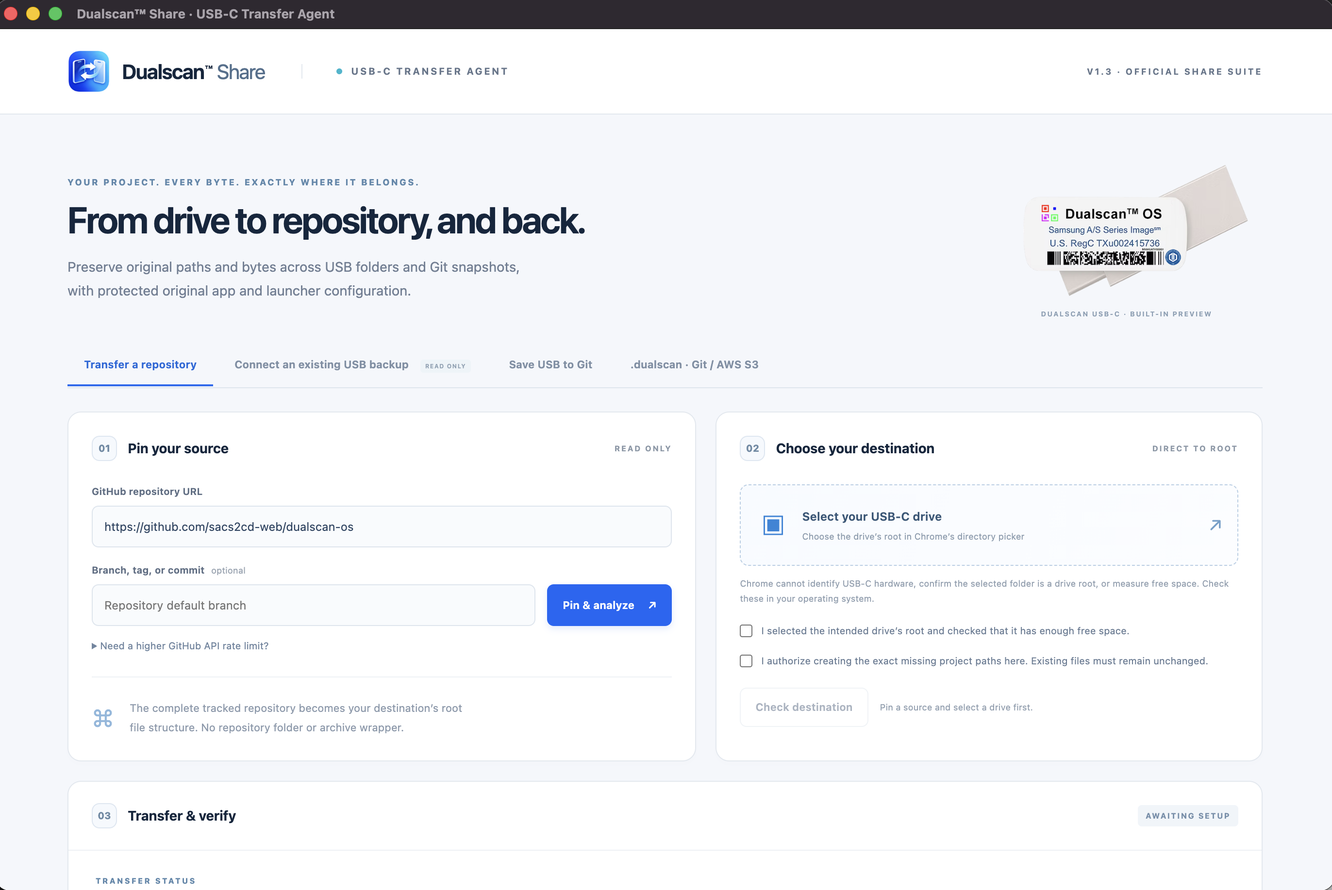
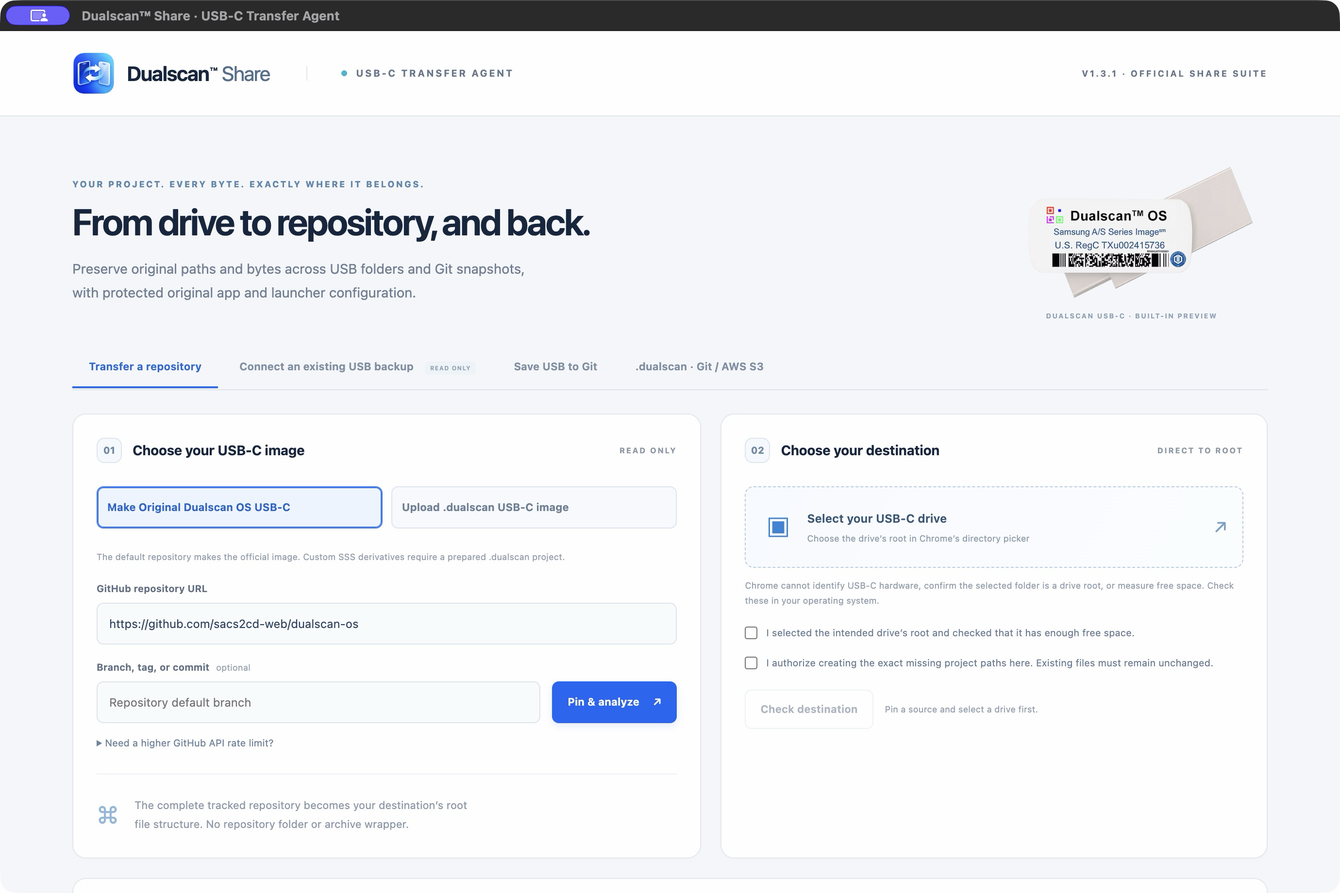
Publish Dualscan Share Suite 1.3.1 downloads and current Mac interface

diff --git a/docs/share/index.html b/docs/share/index.html
@@ -22,21 +22,21 @@
 <main id="main">
   <section class="hero wrap">
     <div class="hero-copy"><p class="eyebrow"><span class="dot"></span> MACOS · WINDOWS · CHROME</p><h1>Your USB image.<br><span>Every path, intact.</span></h1><p class="lead">Move your Dualscan OS project between USB-C, Git and your own AWS S3 bucket. Keep the original image protected. Carry the manifest in one <code>.dualscan</code> file.</p><div class="actions"><a class="button primary" href="#downloads">Get Share Suite <span aria-hidden="true">↓</span></a><a class="text-link" href="#workflow">Explore the workflow <span aria-hidden="true">↗</span></a></div><p class="hero-note">Verified file bytes and nested paths.<br>No drive formatting. No repository ZIP wrapper.</p></div>
-    <figure class="hero-visual"><div class="edition"><span>DUALSCAN OS / SHARE SUITE</span><span>1.3.0</span></div><img src="assets/dualscan-usb-c.png" alt="Dualscan OS branded USB-C drive" width="646" height="336"><figcaption><span class="verified-dot" aria-hidden="true"></span> Select a source. Review the destination. Verify every file.</figcaption></figure>
+    <figure class="hero-visual"><div class="edition"><span>DUALSCAN OS / SHARE SUITE</span><span>1.3.1</span></div><img src="assets/dualscan-usb-c.png" alt="Dualscan OS branded USB-C drive" width="646" height="336"><figcaption><span class="verified-dot" aria-hidden="true"></span> Select a source. Review the destination. Verify every file.</figcaption></figure>
   </section>
   <div class="platform-strip wrap"><div><strong>One project</strong><span>Git or AWS S3 sources</span></div><div><strong>Three platforms</strong><span>macOS · Windows · Chrome</span></div><div><strong>Original first</strong><span>Protected SSS image + added snapshots</span></div></div>
 
   <section id="workspace-preview" class="section wrap app-preview" aria-labelledby="preview-heading">
     <div class="section-heading"><div><p class="eyebrow">INSIDE SHARE SUITE</p><h2 id="preview-heading">Your project.<br><span>A clear path forward.</span></h2></div><p>Pin the source, choose your USB folder, and review each transfer before writing. The same workspace brings discovery, Git and AWS projects together.</p></div>
-    <figure class="app-capture"><a href="assets/share-app.png" target="_blank" rel="noopener" aria-label="Open the Dualscan Share app screenshot at full size"><img src="assets/share-app.png" width="2744" height="1834" alt="Dualscan Share app showing repository transfer, USB backup discovery, Save USB to Git, and .dualscan Git and AWS S3 workspace tabs, with source and destination checks before transfer." loading="lazy"></a><figcaption>Dualscan™ Share Suite 1.3.0 · The transfer workspace. Open the image to see it at full size.</figcaption></figure>
+    <figure class="app-capture"><a href="assets/share-app.png" target="_blank" rel="noopener" aria-label="Open the Dualscan Share app screenshot at full size"><img src="assets/share-app.png" width="2760" height="1840" alt="Dualscan Share app showing repository transfer, USB backup discovery, Save USB to Git, and .dualscan Git and AWS S3 workspace tabs, with source and destination checks before transfer." loading="lazy"></a><figcaption>Dualscan™ Share Suite 1.3.1 · The transfer workspace. Open the image to see it at full size.</figcaption></figure>
   </section>
 
   <section id="workflow" class="section wrap">
     <div class="section-heading"><div><p class="eyebrow">THE WORKFLOW / 01</p><h2>A project you can<br>move and verify.</h2></div><p>Share works with the actual files. It streams binary content, preserves nested paths, resolves Git LFS payloads and checks file identities before reporting completion.</p></div>
     <div class="workflow">
       <article><span class="number">01</span><h3>Connect and inspect</h3><p>Choose a USB folder or pin a public GitHub commit. Find nested Smart Switch snapshots without hardcoding a drive, device ID or backup timestamp.</p><p class="detail">Standalone APKs are identified by their Android package and detected build. Encrypted Smart Switch presence is reported independently, with its internal version unverified.</p></article>
-      <article><span class="number">02</span><h3>Back up to your destination</h3><p>Save a selected USB dataset to your own GitHub, GitLab.com or Bitbucket Cloud repository, or create a new snapshot prefix in your private AWS S3 bucket.</p><p class="detail">Review the new branch or S3 snapshot before authorizing an upload. Existing destination files and snapshots are protected against replacement.</p></article>
-      <article><span class="number">03</span><h3>Restore and read back</h3><p>Import a <code>filename.dualscan</code> project, connect its Git or AWS source, and select the destination USB folder. Source identities and path collisions are checked before writing.</p><p class="detail">Missing files are streamed to their original relative paths. Size, hash and destination read-back checks gate verified completion.</p></article>
+      <article><span class="number">02</span><h3>Back up to your destination</h3><p>Save a selected USB dataset to your own GitHub, GitLab.com or Bitbucket Cloud repository, or publish a verified Dualscan dataset in a new random folder in your AWS S3 bucket.</p><p class="detail">Review the destination first. AWS dataset files are public after anonymous verification; protect personal additions with SSS encryption before upload. Existing files and snapshots are not replaced.</p></article>
+      <article><span class="number">03</span><h3>Restore and read back</h3><p>Import a <code>filename.dualscan</code> project, connect its Git or AWS source, and select the destination USB folder. Source identities and path collisions are checked before writing.</p><p class="detail">A verified package wrapper is removed so SmartSwitchBackup2, OEM installers and the original files are placed directly in the USB root. Size, hash and destination read-back checks gate verified completion.</p></article>
     </div>
   </section>
 
@@ -53,28 +53,28 @@
   </section>
 
   <section class="section wrap project-section">
-    <div><p class="eyebrow">THE PORTABLE PROJECT / 03</p><h2>One <code>.dualscan</code> file.<br>Pick up where you need it.</h2></div><div class="project-copy"><p>A versioned project file carries the pinned source, file paths, sizes, integrity identities and original-image protection reference. Its Typelocker source locator travels with it.</p><p>The project format is data only. It contains source metadata rather than the backup’s binary payloads, and exports exclude account credentials. Optional passphrase protection encrypts the manifest; the Git or AWS source still needs to be reachable for restore.</p><div class="source-tags"><span>Git commit + tree</span><span>AWS snapshot prefix</span><span>OEM identities</span><span>Original image first</span></div></div>
+    <div><p class="eyebrow">THE PORTABLE PROJECT / 03</p><h2>One <code>.dualscan</code> file.<br>Pick up where you need it.</h2></div><div class="project-copy"><p>A versioned project file carries the pinned source, file paths, sizes, integrity identities and original-image protection reference. Its Typelocker source locator travels with it.</p><p>The project format is data only. It contains source metadata rather than the backup’s binary payloads, and exports exclude account credentials. Binary Typelocker app protection prevents plain-text manifest viewing. Add a passphrase for confidential metadata: the shared app key is recoverable from the app. The source must remain reachable for restore.</p><div class="source-tags"><span>Git commit + tree</span><span>AWS snapshot prefix</span><span>OEM identities</span><span>Original image first</span></div></div>
   </section>
 
   <section id="downloads" class="section wrap downloads">
-    <div class="section-heading"><div><p class="eyebrow">CHOOSE YOUR WORKSPACE / 04</p><h2>Get the official<br>Share Suite.</h2></div><p>Version 1.3.0 · Use the build for your computer. Desktop and Chrome share the transfer, discovery and project-file workflows.</p></div>
+    <div class="section-heading"><div><p class="eyebrow">CHOOSE YOUR WORKSPACE / 04</p><h2>Get the official<br>Share Suite.</h2></div><p>Version 1.3.1 · Use the build for your computer. Desktop and Chrome share the transfer, discovery and project-file workflows.</p></div>
     <div class="download-list">
-      <article class="download-row"><div class="platform-icon" aria-hidden="true">M</div><div class="download-name"><h3>macOS · Apple silicon</h3><p>Portable app ZIP · M-series Macs</p></div><span class="format">ARM64 / ZIP</span><a class="button secondary" href="https://github.com/sacs2cd-web/dualscan-os-share-suite/releases/download/v1.3.0/Dualscan-Share-1.3.0-mac-arm64.zip" aria-label="Download Share Suite 1.3.0 for macOS Apple silicon">Download <span aria-hidden="true">↓</span></a></article>
-      <article class="download-row"><div class="platform-icon" aria-hidden="true">M</div><div class="download-name"><h3>macOS · Intel</h3><p>Portable app ZIP · Intel-based Macs</p></div><span class="format">X64 / ZIP</span><a class="button secondary" href="https://github.com/sacs2cd-web/dualscan-os-share-suite/releases/download/v1.3.0/Dualscan-Share-1.3.0-mac-x64.zip" aria-label="Download Share Suite 1.3.0 for macOS Intel">Download <span aria-hidden="true">↓</span></a></article>
-      <article class="download-row"><div class="platform-icon windows" aria-hidden="true">⊞</div><div class="download-name"><h3>Windows</h3><p>Portable executable · 64-bit</p></div><span class="format">X64 / EXE</span><a class="button secondary" href="https://github.com/sacs2cd-web/dualscan-os-share-suite/releases/download/v1.3.0/Dualscan-Share-1.3.0-win-x64.exe" aria-label="Download Share Suite 1.3.0 for Windows x64">Download <span aria-hidden="true">↓</span></a></article>
-      <article class="download-row"><div class="platform-icon chrome" aria-hidden="true">C</div><div class="download-name"><h3>Chrome extension</h3><p>Manifest V3 plugin ZIP · manual developer installation</p></div><span class="format">CHROME / ZIP</span><a class="button secondary" href="https://github.com/sacs2cd-web/dualscan-os-share-suite/releases/download/v1.3.0/dualscan-share-1.3.0.zip" aria-label="Download corrected Share extension 1.3.0 ZIP">Download <span aria-hidden="true">↓</span></a></article>
+      <article class="download-row"><div class="platform-icon" aria-hidden="true">M</div><div class="download-name"><h3>macOS · Apple silicon</h3><p>Portable app ZIP · M-series Macs</p></div><span class="format">ARM64 / ZIP</span><a class="button secondary" href="https://github.com/sacs2cd-web/dualscan-os-share-suite/releases/download/v1.3.1/Dualscan-Share-1.3.1-mac-arm64.zip" aria-label="Download Share Suite 1.3.1 for macOS Apple silicon">Download <span aria-hidden="true">↓</span></a></article>
+      <article class="download-row"><div class="platform-icon" aria-hidden="true">M</div><div class="download-name"><h3>macOS · Intel</h3><p>Portable app ZIP · Intel-based Macs</p></div><span class="format">X64 / ZIP</span><a class="button secondary" href="https://github.com/sacs2cd-web/dualscan-os-share-suite/releases/download/v1.3.1/Dualscan-Share-1.3.1-mac-x64.zip" aria-label="Download Share Suite 1.3.1 for macOS Intel">Download <span aria-hidden="true">↓</span></a></article>
+      <article class="download-row"><div class="platform-icon windows" aria-hidden="true">⊞</div><div class="download-name"><h3>Windows</h3><p>Portable executable · 64-bit</p></div><span class="format">X64 / EXE</span><a class="button secondary" href="https://github.com/sacs2cd-web/dualscan-os-share-suite/releases/download/v1.3.1/Dualscan-Share-1.3.1-win-x64.exe" aria-label="Download Share Suite 1.3.1 for Windows x64">Download <span aria-hidden="true">↓</span></a></article>
+      <article class="download-row"><div class="platform-icon chrome" aria-hidden="true">C</div><div class="download-name"><h3>Chrome extension</h3><p>Manifest V3 plugin ZIP · manual developer installation</p></div><span class="format">CHROME / ZIP</span><a class="button secondary" href="https://github.com/sacs2cd-web/dualscan-os-share-suite/releases/download/v1.3.1/dualscan-share-1.3.1.zip" aria-label="Download corrected Share extension 1.3.1 ZIP">Download <span aria-hidden="true">↓</span></a></article>
     </div>
-    <div class="download-notes"><p><strong>Release trust.</strong> macOS builds use ad-hoc signatures and do not have Developer ID signing or Apple notarization. The Windows executable is unsigned. <a href="https://github.com/sacs2cd-web/dualscan-os-share-suite/releases/download/v1.3.0/SHA256SUMS.txt">Verify download checksums ↗</a> · <a href="#desktop-install">Installation instructions ↘</a></p><p><a href="https://github.com/sacs2cd-web/dualscan-os-share-suite#chrome-extension">Chrome installation guide ↗</a></p></div>
+    <div class="download-notes"><p><strong>Release trust.</strong> macOS builds use ad-hoc signatures and do not have Developer ID signing or Apple notarization. The Windows executable is unsigned. <a href="https://github.com/sacs2cd-web/dualscan-os-share-suite/releases/download/v1.3.1/SHA256SUMS.txt">Verify download checksums ↗</a> · <a href="#desktop-install">Installation instructions ↘</a></p><p><a href="https://github.com/sacs2cd-web/dualscan-os-share-suite#chrome-extension">Chrome installation guide ↗</a></p></div>
     <div id="desktop-install" class="desktop-install" aria-labelledby="install-heading">
-      <h3 id="install-heading">Install the desktop app</h3><p class="install-intro">First compare your download’s SHA-256 with <a href="https://github.com/sacs2cd-web/dualscan-os-share-suite/releases/download/v1.3.0/SHA256SUMS.txt">SHA256SUMS.txt</a>. A match checks download integrity; it does not establish publisher identity or malware safety.</p>
+      <h3 id="install-heading">Install the desktop app</h3><p class="install-intro">First compare your download’s SHA-256 with <a href="https://github.com/sacs2cd-web/dualscan-os-share-suite/releases/download/v1.3.1/SHA256SUMS.txt">SHA256SUMS.txt</a>. A match checks download integrity; it does not establish publisher identity or malware safety.</p>
       <div class="install-platforms">
-        <details><summary>macOS · ad-hoc signed, not notarized</summary><div class="install-body"><ol><li>Download the ZIP for your Mac: Apple silicon (ARM64) or Intel (x64), then verify its SHA-256.</li><li>Unzip it and move <strong>Dualscan™ Share Suite</strong> into Applications. Try opening the app.</li><li>If macOS cannot verify the developer or notarization, proceed only if you trust this exact download. Open <strong>System Settings → Privacy &amp; Security → Open Anyway</strong>, then confirm <strong>Open</strong> and authenticate if requested. This creates an exception for this app.</li><li>If macOS reports malware, damage, or a policy block, stop and contact <a href="mailto:sa.cs2cd@gmail.com">support</a> or your administrator.</li></ol><p>See <a href="https://support.apple.com/en-us/102445">Apple’s app-opening guidance</a>.</p><details class="hash-check"><summary>Check the Mac download’s SHA-256</summary><pre><code>shasum -a 256 ~/Downloads/Dualscan-Share-1.3.0-mac-arm64.zip</code></pre><p>For Intel, use <code>Dualscan-Share-1.3.0-mac-x64.zip</code> instead. Compare the entire digest with the matching filename in SHA256SUMS.txt.</p></details></div></details>
-        <details><summary>Windows · unsigned portable EXE</summary><div class="install-body"><ol><li>Download the Windows x64 EXE and verify its SHA-256. Open it as your normal user; no installer is required.</li><li>If SmartScreen identifies an unrecognized app, choose <strong>More info → Run anyway</strong> only after verifying this download and deciding you trust it.</li><li>If that option is unavailable, or Smart App Control or an organization policy blocks the app, stop and contact <a href="mailto:sa.cs2cd@gmail.com">support</a> or your administrator. Keep those protections enabled.</li></ol><p>See Microsoft’s <a href="https://learn.microsoft.com/en-us/windows/apps/package-and-deploy/smartscreen-reputation">SmartScreen guidance</a> and <a href="https://learn.microsoft.com/en-us/windows/apps/package-and-deploy/publish-first-app">direct-distribution guidance</a>.</p><details class="hash-check"><summary>Check the Windows download’s SHA-256</summary><pre><code>Get-FileHash "$env:USERPROFILE\Downloads\Dualscan-Share-1.3.0-win-x64.exe" -Algorithm SHA256</code></pre><p>Run this in PowerShell. Compare the entire digest with the matching filename in SHA256SUMS.txt.</p></details></div></details>
+        <details><summary>macOS · ad-hoc signed, not notarized</summary><div class="install-body"><ol><li>Download the ZIP for your Mac: Apple silicon (ARM64) or Intel (x64), then verify its SHA-256.</li><li>Unzip it and move <strong>Dualscan™ Share Suite</strong> into Applications. Try opening the app.</li><li>If macOS cannot verify the developer or notarization, proceed only if you trust this exact download. Open <strong>System Settings → Privacy &amp; Security → Open Anyway</strong>, then confirm <strong>Open</strong> and authenticate if requested. This creates an exception for this app.</li><li>If macOS reports malware, damage, or a policy block, stop and contact <a href="mailto:sa.cs2cd@gmail.com">support</a> or your administrator.</li></ol><p>See <a href="https://support.apple.com/en-us/102445">Apple’s app-opening guidance</a>.</p><details class="hash-check"><summary>Check the Mac download’s SHA-256</summary><pre><code>shasum -a 256 ~/Downloads/Dualscan-Share-1.3.1-mac-arm64.zip</code></pre><p>For Intel, use <code>Dualscan-Share-1.3.1-mac-x64.zip</code> instead. Compare the entire digest with the matching filename in SHA256SUMS.txt.</p></details></div></details>
+        <details><summary>Windows · unsigned portable EXE</summary><div class="install-body"><ol><li>Download the Windows x64 EXE and verify its SHA-256. Open it as your normal user; no installer is required.</li><li>If SmartScreen identifies an unrecognized app, choose <strong>More info → Run anyway</strong> only after verifying this download and deciding you trust it.</li><li>If that option is unavailable, or Smart App Control or an organization policy blocks the app, stop and contact <a href="mailto:sa.cs2cd@gmail.com">support</a> or your administrator. Keep those protections enabled.</li></ol><p>See Microsoft’s <a href="https://learn.microsoft.com/en-us/windows/apps/package-and-deploy/smartscreen-reputation">SmartScreen guidance</a> and <a href="https://learn.microsoft.com/en-us/windows/apps/package-and-deploy/publish-first-app">direct-distribution guidance</a>.</p><details class="hash-check"><summary>Check the Windows download’s SHA-256</summary><pre><code>Get-FileHash "$env:USERPROFILE\Downloads\Dualscan-Share-1.3.1-win-x64.exe" -Algorithm SHA256</code></pre><p>Run this in PowerShell. Compare the entire digest with the matching filename in SHA256SUMS.txt.</p></details></div></details>
       </div>
     </div>
   </section>
 
-  <section class="section wrap practical"><div><p class="eyebrow">BEFORE YOU BEGIN</p><h2>Your storage.<br>Your destination.</h2></div><div><ul><li>Use a USB 3 capable drive and port for better throughput. Thousands of small files and full verification add work beyond a sequential speed rating.</li><li>Confirm the selected folder is the intended USB root and has enough free space. The browser cannot certify the connector, drive identity or free capacity.</li><li>AWS S3 requires your own bucket and scoped account credentials. Chrome also needs bucket CORS and an exact-host permission grant. Storage and request charges are billed by AWS.</li><li>Tokens and AWS credentials stay in session memory. Project files and evidence reports exclude them. There is no publisher-operated transfer relay.</li><li>A verified file transfer does not establish a successful Samsung Smart Switch restore. Device and backup compatibility still apply.</li></ul></div></section>
+  <section class="section wrap practical"><div><p class="eyebrow">BEFORE YOU BEGIN</p><h2>Your storage.<br>Your destination.</h2></div><div><ul><li>Use a USB 3 capable drive and port for better throughput. Thousands of small files and full verification add work beyond a sequential speed rating.</li><li>Confirm the selected folder is the intended USB root and has enough free space. The browser cannot certify the connector, drive identity or free capacity.</li><li>AWS uploads require scoped credentials and a public-read policy for the reviewed random dataset folder. Downloads of public projects need no AWS keys. Chrome needs the regional host grant and bucket CORS. AWS storage and request charges apply.</li><li>Tokens and AWS credentials stay in session memory. Project files and evidence reports exclude them. There is no publisher-operated transfer relay.</li><li>A verified file transfer does not establish a successful Samsung Smart Switch restore. Device and backup compatibility still apply.</li></ul></div></section>
 </main>
 <footer class="footer wrap"><a class="footer-home" href="https://dualscan.cloud/">← Dualscan™ OS</a><p>Dualscan LLC · Community + commercial · October 2026</p><div><a href="privacy.html">Privacy</a><a href="mailto:sa.cs2cd@gmail.com">Support</a><a href="https://github.com/sacs2cd-web/dualscan-os-share-suite">GitHub ↗</a></div></footer>
 </body>

diff --git a/docs/share/privacy.html b/docs/share/privacy.html
@@ -2,19 +2,19 @@
 <html lang="en"><head><meta charset="utf-8"><meta name="viewport" content="width=device-width,initial-scale=1"><title>Dualscan™ Share Suite privacy</title><meta name="description" content="Privacy practices for Dualscan Share Suite 1.3, including USB discovery, Git and AWS S3 transfers, desktop credentials and .dualscan project files."><link rel="canonical" href="https://dualscan.cloud/share/privacy.html"><link rel="icon" href="assets/share-icon.png" type="image/png"><link rel="stylesheet" href="style.css"></head><body>
 <header class="header wrap"><a class="brand" href="./"><img src="assets/share-icon.png" width="42" height="42" alt=""><span>Dualscan<sup>™</sup> <b>Share</b><small>OFFICIAL OS SHARE SUITE</small></span></a><a class="repo" href="./">Back to Share Suite ↗</a></header>
 <main class="policy wrap"><h1>Dualscan™ Share Suite privacy policy</h1>
-<p>Effective: October 27, 2026. Applies to the 1.3.0 Chrome extension and desktop suite.</p>
+<p>Effective: October 27, 2026. Applies to the 1.3.1 Chrome extension and desktop suite.</p>
 <p>Dualscan Share processes directories you choose and transfers files directly between those directories and the Git or AWS destination/source you authorize. There are no ads, analytics, telemetry services, publisher-operated transfer servers or automatic report uploads.</p>
 <h2>Selected files and metadata</h2>
 <p>Directory access is limited to user-selected File System Access handles. Repository downloads read pinned GitHub metadata, manifests, tracked paths and file bytes. Destination entries and existing bytes are read to detect collisions and verify content. Missing files are created only after review and consent; different existing files block writes. Read-only USB discovery does not modify the selected drive.</p>
 <p>Discovery reads nested package paths, file sizes and modification times, Smart Switch backup information, marker hashes and optional local manifests. It can display a device description and relative snapshot identifier. It reads binary AndroidManifest.xml metadata to identify APK packages and build versions, and computes APK SHA-256 when release expectations are available. Current OEM expectations are requested from the fixed official GitHub repository at a resolved commit. Local inventory contents are not sent with that request. Encrypted Smart Switch payloads and opaque AppList/launcher data are not decrypted. Publisher APK signatures and encrypted app versions are not authenticated.</p>
-<p>USB-to-Git publication sends the selected source contents and relative paths, commit information and necessary connection information directly to GitHub, GitLab.com or Bitbucket Cloud, after destination review and consent. Provider-designated Git LFS storage can receive binary objects and its supplied action credentials. Private S3 backup sends selected contents and a project descriptor directly to the user&#x27;s selected regional S3 endpoint. The publisher receives no copy and does not provision or change public access on the bucket. Providers receive normal network information, including the connecting IP address, and govern their services under their own policies.</p>
+<p>USB-to-Git publication sends the selected source contents and relative paths, commit information and necessary connection information directly to GitHub, GitLab.com or Bitbucket Cloud, after destination review and consent. Provider-designated Git LFS storage can receive binary objects and its supplied action credentials. S3 publication sends the complete verified dataset and a project descriptor to a new random Dualscan OS folder at the selected regional endpoint. Each file must pass anonymous read-back before public completion is reported. All dataset files are public; protect personal SSS additions using Smart Switch password or Samsung Account encryption before upload. Share preserves opaque payload bytes and cannot certify Samsung encryption. The publisher receives no copy. The app never changes bucket policies, ACLs or Block Public Access settings; the user configures the scoped public-read policy. Providers receive normal network information, including the connecting IP address, and govern their services under their own policies.</p>
 <p>Optional repository artwork at assets/dualscan-usb-c.png is fetched from the pinned source and checked before display. Otherwise the application displays its bundled image. The suite does not inspect unrelated tabs, browsing history, contacts or unselected filesystem locations. Repository scripts and instructions are never executed.</p>
 <h2>Credentials and host access</h2>
 <p>Git access tokens and manually entered AWS access-key/secret/session-token values remain in the open page&#x27;s memory. They are cleared on disconnect or closing/reloading the workspace. AWS signing uses only the selected regional S3 endpoint. Git account authentication is confined to the selected provider API and validated LFS negotiation endpoint. Account tokens are not attached to arbitrary signed-storage hosts. No shared publisher OAuth secret, AWS account-login service or upload relay is bundled.</p>
 <p>The extension requests exact HTTPS host grants for reviewed additional storage origins. Desktop host grants are approved in a native dialog and expire when the app exits. Its native HTTPS bridge rejects redirects and local/private network destinations, validates TLS, and exposes no general filesystem API to the renderer.</p>
 <p>Credentials, signed action URLs/headers and filesystem handles are excluded from exported project files and evidence reports. Do not deliberately place secrets in filenames, project titles or source file contents if you intend to publish those files to a public repository.</p>
 <h2>Project files and local retention</h2>
-<p>A user-exported .dualscan project contains source locators, pinned Git or S3 identities, relative file paths, sizes and hashes, the core OEM specification and the full official original reference when applicable. File contents remain at the selected remote source. TypelockerProject1/base64url encoding is not encryption. Optional passphrase encryption protects the project metadata using authenticated AES-256-GCM; the passphrase is not included in the file and there is no publisher recovery service. The TCU1:U compatible source locator is a URL encoding, not the full project-file codec.</p>
+<p>A user-exported .dualscan project contains source locators, pinned Git or S3 identities, relative file paths, sizes and hashes, the core OEM specification and the full official original reference when applicable. File contents remain at the selected remote source. New exports use the binary TypelockerProject2 authenticated AES-256-GCM envelope with a shared app key. This prevents plain-text viewing in a text editor. The app key is recoverable from client software; optional user-passphrase protection is needed for confidential manifest metadata. Legacy codec1 files remain readable by the app. The passphrase is not included in the file and there is no publisher recovery service. Manifest protection does not encrypt the publicly readable S3 payload files. The TCU1:U compatible source locator is a URL encoding, not the full project-file codec.</p>
 <p>The application can retain a transfer checkpoint, source plan, verification metadata and the selected destination handle in local IndexedDB. Explicit original-image baselines/references can retain relative protected paths, sizes, hashes and launcher observations. These contain no credentials. Chrome manages extension storage and directory permission; the desktop application uses a separate per-user profile. Retaining a handle does not bypass the platform&#x27;s permission checks. Desktop portable binaries do not carry local checkpoints to another computer automatically.</p>
 <p>Read-only connected-drive inventories and source handles remain in the page session. Project manifests and reports are downloaded only on explicit request or after an authorized backup completes. The desktop application&#x27;s OS-open import reads only an explicitly opened regular .dualscan file, with a 32 MiB limit and changed-file/symlink checks; a renderer cannot submit an arbitrary native path. Exports use the platform&#x27;s save workflow.</p>
 <p>Use the checkpoint-clear and original-baseline controls to remove those local records. Uninstalling the Chrome extension removes its browser-managed extension storage; desktop app profile data may remain until removed through the operating system. Clearing local records does not delete transferred files, exported projects/reports, remote Git objects/branches or S3 objects. Cancelled publications can leave partial new remote data and AWS charges; remove or retain them through your provider account as appropriate.</p>
